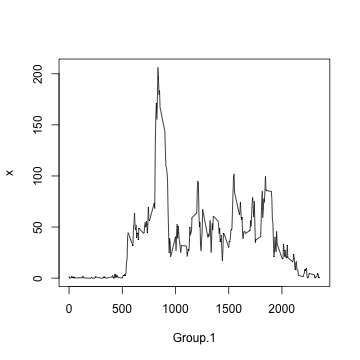
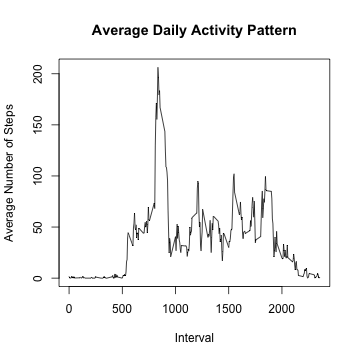
annotate the figures

Changed region(s): [[0.2444, 0.0611, 0.825, 0.1222], [0.0, 0.275, 0.0611, 0.6722], [0.4583, 0.9167, 0.6111, 0.9778]]

diff --git a/PA1_template.html b/PA1_template.html
@@ -237,10 +237,11 @@ print(paste(&quot;The median steps per day is:&quot;, round(medianstepsperday, d
 
 <pre><code class="r">meanstepsbyinterval &lt;- aggregate(activity$steps, by = list(activity$interval), 
     mean, na.rm = TRUE)
-with(meanstepsbyinterval, plot(Group.1, x, type = &quot;l&quot;))
+with(meanstepsbyinterval, plot(Group.1, x, type = &quot;l&quot;, xlab = &quot;Interval&quot;, ylab = &quot;Average Number of Steps&quot;, 
+    main = &quot;Average Daily Activity Pattern&quot;))
 </code></pre>
 
[2 lines of base64/hex data omitted]
 
 <p><strong>2. Which 5-minute interval, on average across all the days in the dataset, contains the maximum number of steps?</strong></p>
 

diff --git a/PA1_template.md b/PA1_template.md
@@ -65,7 +65,8 @@ print(paste("The median steps per day is:", round(medianstepsperday, digit = 2))
 ```r
 meanstepsbyinterval <- aggregate(activity$steps, by = list(activity$interval), 
     mean, na.rm = TRUE)
-with(meanstepsbyinterval, plot(Group.1, x, type = "l"))
+with(meanstepsbyinterval, plot(Group.1, x, type = "l", xlab = "Interval", ylab = "Average Number of Steps", 
+    main = "Average Daily Activity Pattern"))
 ```
 
 ![plot of chunk meanstepsperinterval](figure/meanstepsperinterval.png) 
